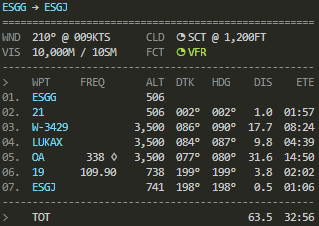
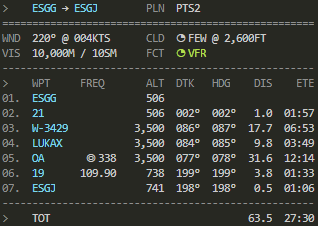
Improved flightplan output

diff --git a/dist/Export/Flightplan.js b/dist/Export/Flightplan.js
@@ -1,7 +1,8 @@
 import { MissionConditions } from "../Aerofly/MissionConditions.js";
 export class Flightplan {
-    constructor(mission) {
+    constructor(mission, clr) {
         this.mission = mission;
+        this.clr = clr;
     }
     /**
      * @param hours number
@@ -20,53 +21,63 @@ export class Flightplan {
     padThree(number, maxLength = 3) {
         return this.pad(number, maxLength, 0, "0");
     }
-    lineOutput(fields) {
+    outputLine(fields) {
         return fields.join('  ') + "\n";
     }
-    weatherLineOutput(fields, clr) {
-        return this.lineOutput(fields.map((l, i) => {
+    outputFourColumn(fields) {
+        return this.outputLine(fields.map((l, i) => {
+            const colorsLength = this.clr.getColorsLength(l);
             return i % 2
-                ? l.padEnd(17)
-                : clr.lightGray + l.padEnd(3) + clr.reset;
+                ? l.padEnd(17 + colorsLength, ' ')
+                : this.clr.lightGray + l.padEnd(3) + this.clr.reset;
         }));
     }
     /**
      * @see https://aviation.stackexchange.com/questions/13280/what-do-the-different-colors-of-weather-stations-indicate-on-skyvector
      */
-    getConditionColored(conditions, clr) {
+    getConditionColored(conditions) {
         const flight_category = conditions.flight_category;
         const symbol = conditions.cloud_cover_symbol + ' ' + flight_category;
-        if (!clr.useColors) {
+        if (!this.clr.useColors) {
             return symbol;
         }
-        let color = clr.lightMagenta; // LIFR
+        let color = this.clr.lightMagenta; // LIFR
         switch (flight_category) {
             case MissionConditions.CONDITION_VFR:
-                color = clr.lightGreen;
+                color = this.clr.lightGreen;
                 break;
             case MissionConditions.CONDITION_MVFR:
-                color = clr.lightBlue;
+                color = this.clr.lightBlue;
                 break;
             case MissionConditions.CONDITION_IFR:
-                color = clr.lightRed;
+                color = this.clr.lightRed;
                 break;
         }
-        return color + symbol + clr.reset;
+        return color + symbol + this.clr.reset;
     }
-    toString(clr) {
+    outputDashes(length, char = '-') {
+        return this.clr.lightGray + char.repeat(length) + this.clr.reset + "\n";
+    }
+    toString() {
         const m = this.mission;
-        let output = `${clr.lightCyan + m.origin_icao + clr.reset} → ${clr.lightCyan + m.destination_icao + clr.reset}
-${clr.lightGray}====================================================${clr.reset}` + "\n";
-        output += this.weatherLineOutput([
+        const lineLength = 52;
+        let output = this.outputFourColumn([
+            'RTE',
+            `${this.clr.lightCyan + m.origin_icao + this.clr.reset} → ${this.clr.lightCyan + m.destination_icao + this.clr.reset}`,
+            'AIR',
+            m.aircraft_icao
+        ]);
+        output += this.outputDashes(lineLength, '=');
+        output += this.outputFourColumn([
             'WND', `${this.padThree(m.conditions.wind_direction)}° @ ${this.padThree(m.conditions.wind_speed)}KTS`,
             'CLD', `${m.conditions.cloud_cover_symbol} ${m.conditions.cloud_cover_code} @ ${m.conditions.cloud_base_feet.toLocaleString('en')}FT`
-        ], clr);
-        output += this.weatherLineOutput([
+        ]);
+        output += this.outputFourColumn([
             'VIS', `${m.conditions.visibility.toLocaleString('en')}M / ${Math.round(m.conditions.visibility_sm)}SM`,
-            'FCT', `${this.getConditionColored(m.conditions, clr)}`
-        ], clr);
-        output += `${clr.lightGray}----------------------------------------------------${clr.reset}` + "\n";
-        output += clr.lightGray + this.lineOutput(['>  ', 'WPT   ', 'FREQ  ', '   ALT', 'DTK ', 'HDG ', ' DIS', '  ETE']) + clr.reset;
+            'FCT', `${this.getConditionColored(m.conditions)}`
+        ]);
+        output += this.outputDashes(lineLength);
+        output += this.clr.lightGray + this.outputLine(['>  ', 'WPT   ', 'FREQ  ', '   ALT', 'DTK ', 'HDG ', ' DIS', '  ETE']) + this.clr.reset;
         let totalDistance = 0, totalTime = 0;
         m.checkpoints.forEach((c, i) => {
             totalDistance += c.distance;
@@ -78,21 +89,20 @@ ${clr.lightGray}====================================================${clr.reset}
                 frqString = c.frequency_unit === 'M' ? this.pad(c.frequency_mhz, 6, 2) : ('◎ ' + c.frequency_khz.toFixed()).padStart(6);
             }
             ;
-            output += this.lineOutput([
-                clr.lightGray + this.pad(i + 1, 2, 0, "0") + ".",
-                clr.lightCyan + c.name.padEnd(6, " ") + clr.reset,
+            output += this.outputLine([
+                this.clr.lightGray + this.pad(i + 1, 2, 0, "0") + ".",
+                this.clr.lightCyan + c.name.padEnd(6, " ") + this.clr.reset,
                 (c.frequency) ? frqString : ' '.repeat(6),
                 (c.altitude) ? this.pad(c.altitude_ft, 6, 0) : ' '.repeat(6),
                 (c.direction >= 0) ? this.padThree(c.direction) + "°" : ' '.repeat(4),
                 (c.heading >= 0) ? this.padThree(c.heading) + "°" : ' '.repeat(4),
                 (c.distance >= 0) ? this.pad(c.distance, 4, 1) : ' '.repeat(4),
-                //(c.ground_speed >= 0) ? this.pad(c.ground_speed) : ' '.repeat(3),
                 (c.time > 0) ? this.convertHoursToMinutesString(c.time) : ' '.repeat(5),
             ]);
         });
-        output += `${clr.lightGray}----------------------------------------------------${clr.reset}` + "\n";
-        output += this.lineOutput([
-            clr.lightGray + '>  ' + clr.reset, 'TOT   ', '      ', '      ', '    ', '    ',
+        output += this.outputDashes(lineLength);
+        output += this.outputLine([
+            this.clr.lightGray + '>  ' + this.clr.reset, 'TOT   ', '      ', '      ', '    ', '    ',
             this.pad(totalDistance, 4, 1),
             this.convertHoursToMinutesString(totalTime)
         ]);

diff --git a/src/Export/Flightplan.ts b/src/Export/Flightplan.ts
@@ -1,9 +1,10 @@
+import { stringify } from "node:querystring";
 import { Mission } from "../Aerofly/Mission";
 import { MissionConditions } from "../Aerofly/MissionConditions.js";
 import { BashColors } from "../Cli/BashColors.js";
 
 export class Flightplan {
-  constructor(protected mission: Mission) {
+  constructor(protected mission: Mission, protected clr: BashColors) {
   }
 
   /**
@@ -27,53 +28,65 @@ export class Flightplan {
     return this.pad(number, maxLength, 0, "0");
   }
 
-  lineOutput(fields: string[]): string {
+  outputLine(fields: string[]): string {
     return fields.join('  ') + "\n";
   }
 
-  weatherLineOutput(fields: string[], clr: BashColors): string {
-    return this.lineOutput(fields.map((l, i) => {
+  outputFourColumn(fields: string[]): string {
+    return this.outputLine(fields.map((l, i) => {
+      const colorsLength = this.clr.getColorsLength(l);
       return i % 2
-        ? l.padEnd(17)
-        : clr.lightGray + l.padEnd(3) + clr.reset
+        ? l.padEnd(17 + colorsLength, ' ')
+        : this.clr.lightGray + l.padEnd(3) + this.clr.reset
     }));
   }
 
   /**
    * @see https://aviation.stackexchange.com/questions/13280/what-do-the-different-colors-of-weather-stations-indicate-on-skyvector
    */
-  getConditionColored(conditions: MissionConditions, clr: BashColors) {
+  getConditionColored(conditions: MissionConditions) {
     const flight_category = conditions.flight_category;
     const symbol = conditions.cloud_cover_symbol + ' ' + flight_category;
-    if (!clr.useColors) {
+    if (!this.clr.useColors) {
       return symbol;
     }
-    let color = clr.lightMagenta; // LIFR
+    let color = this.clr.lightMagenta; // LIFR
     switch (flight_category) {
-      case MissionConditions.CONDITION_VFR: color = clr.lightGreen; break;
-      case MissionConditions.CONDITION_MVFR: color = clr.lightBlue; break;
-      case MissionConditions.CONDITION_IFR: color = clr.lightRed; break;
+      case MissionConditions.CONDITION_VFR: color = this.clr.lightGreen; break;
+      case MissionConditions.CONDITION_MVFR: color = this.clr.lightBlue; break;
+      case MissionConditions.CONDITION_IFR: color = this.clr.lightRed; break;
     }
 
-    return color + symbol + clr.reset;
+    return color + symbol + this.clr.reset;
   }
 
-  toString(clr: BashColors): string {
+  outputDashes(length: number, char: string = '-') {
+    return this.clr.lightGray + char.repeat(length) + this.clr.reset + "\n";
+  }
+
+  toString(): string {
     const m = this.mission;
-    let output = `${clr.lightCyan + m.origin_icao + clr.reset} → ${clr.lightCyan + m.destination_icao + clr.reset}
-${clr.lightGray}====================================================${clr.reset}` + "\n";
-    output += this.weatherLineOutput([
+    const lineLength = 52;
+
+    let output = this.outputFourColumn([
+      'RTE',
+      `${this.clr.lightCyan + m.origin_icao + this.clr.reset} → ${this.clr.lightCyan + m.destination_icao + this.clr.reset}`,
+      'AIR',
+      m.aircraft_icao
+    ]);
+    output += this.outputDashes(lineLength, '=');
+
+    output += this.outputFourColumn([
       'WND', `${this.padThree(m.conditions.wind_direction)}° @ ${this.padThree(m.conditions.wind_speed)}KTS`,
       'CLD', `${m.conditions.cloud_cover_symbol} ${m.conditions.cloud_cover_code} @ ${m.conditions.cloud_base_feet.toLocaleString('en')}FT`
-    ], clr);
-    output += this.weatherLineOutput([
+    ]);
+    output += this.outputFourColumn([
       'VIS', `${m.conditions.visibility.toLocaleString('en')}M / ${Math.round(m.conditions.visibility_sm)}SM`,
-      'FCT', `${this.getConditionColored(m.conditions, clr)}`
-    ], clr);
+      'FCT', `${this.getConditionColored(m.conditions)}`
+    ]);
 
-    output += `${clr.lightGray}----------------------------------------------------${clr.reset}` + "\n";
-
-    output += clr.lightGray + this.lineOutput(['>  ', 'WPT   ', 'FREQ  ', '   ALT', 'DTK ', 'HDG ', ' DIS', '  ETE']) + clr.reset;
+    output += this.outputDashes(lineLength);
+    output += this.clr.lightGray + this.outputLine(['>  ', 'WPT   ', 'FREQ  ', '   ALT', 'DTK ', 'HDG ', ' DIS', '  ETE']) + this.clr.reset;
 
     let totalDistance = 0, totalTime = 0;
     m.checkpoints.forEach((c, i) => {
@@ -85,23 +98,21 @@ ${clr.lightGray}====================================================${clr.reset}
         frqString = c.frequency_unit === 'M' ? this.pad(c.frequency_mhz, 6, 2) : ('◎ ' + c.frequency_khz.toFixed()).padStart(6)
       };
 
-      output += this.lineOutput([
-        clr.lightGray + this.pad(i + 1, 2, 0, "0") + ".",
-        clr.lightCyan + c.name.padEnd(6, " ") + clr.reset,
+      output += this.outputLine([
+        this.clr.lightGray + this.pad(i + 1, 2, 0, "0") + ".",
+        this.clr.lightCyan + c.name.padEnd(6, " ") + this.clr.reset,
         (c.frequency) ? frqString : ' '.repeat(6),
         (c.altitude) ? this.pad(c.altitude_ft, 6, 0) : ' '.repeat(6),
         (c.direction >= 0) ? this.padThree(c.direction) + "°" : ' '.repeat(4),
         (c.heading >= 0) ? this.padThree(c.heading) + "°" : ' '.repeat(4),
         (c.distance >= 0) ? this.pad(c.distance, 4, 1) : ' '.repeat(4),
-        //(c.ground_speed >= 0) ? this.pad(c.ground_speed) : ' '.repeat(3),
         (c.time > 0) ? this.convertHoursToMinutesString(c.time) : ' '.repeat(5),
       ]);
     })
 
-    output += `${clr.lightGray}----------------------------------------------------${clr.reset}` + "\n";
-
-    output += this.lineOutput([
-      clr.lightGray + '>  ' + clr.reset, 'TOT   ', '      ', '      ', '    ', '    ',
+    output += this.outputDashes(lineLength);
+    output += this.outputLine([
+      this.clr.lightGray + '>  ' + this.clr.reset, 'TOT   ', '      ', '      ', '    ', '    ',
       this.pad(totalDistance, 4, 1),
       this.convertHoursToMinutesString(totalTime)
     ]);

diff --git a/dist/Cli/BashColors.js b/dist/Cli/BashColors.js
@@ -29,4 +29,20 @@ export class BashColors {
             this.lightWhite = ``;
         }
     }
+    getStringLength(string) {
+        return string.length - this.getColorsLength(string);
+    }
+    getColorsLength(string) {
+        let length = 0;
+        if (!this.useColors) {
+            return length;
+        }
+        const matches = string.match(/\x1b.+?m/g);
+        if (matches) {
+            matches.forEach(l => {
+                length += l.length;
+            });
+        }
+        return length;
+    }
 }

diff --git a/src/Cli/BashColors.ts b/src/Cli/BashColors.ts
@@ -31,4 +31,23 @@ export class BashColors {
       this.lightWhite = ``;
     }
   }
+
+  getStringLength(string: string): number {
+    return string.length - this.getColorsLength(string);
+  }
+
+  getColorsLength(string: string): number {
+    let length = 0;
+    if (!this.useColors) {
+      return length;
+    }
+
+    const matches = string.match(/\x1b.+?m/g);
+    if (matches) {
+      matches.forEach(l => {
+        length += l.length;
+      })
+    }
+    return length
+  }
 }

diff --git a/dist/aerofly-missions.js b/dist/aerofly-missions.js
@@ -36,7 +36,7 @@ if (args.geoJson) {
     process.stdout.write(JSON.stringify(new GeoJson().fromMission(mission)));
 }
 if (args.flightplan) {
-    process.stdout.write(new Flightplan(mission).toString(c));
+    process.stdout.write(new Flightplan(mission, c).toString());
 }
 try {
     await fs.writeFile(args.target, args.append ? mission.toString() : missionList.toString(), {

diff --git a/src/aerofly-missions.ts b/src/aerofly-missions.ts
@@ -43,7 +43,7 @@ if (args.geoJson) {
   process.stdout.write(JSON.stringify(new GeoJson().fromMission(mission)));
 }
 if (args.flightplan) {
-  process.stdout.write(new Flightplan(mission).toString(c));
+  process.stdout.write(new Flightplan(mission, c).toString());
 }
 
 try {
